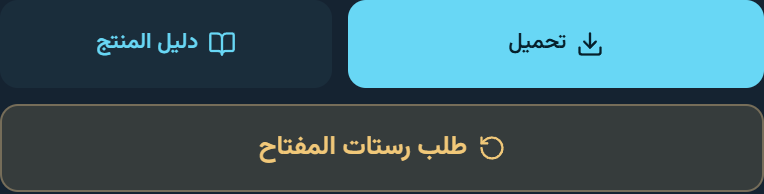
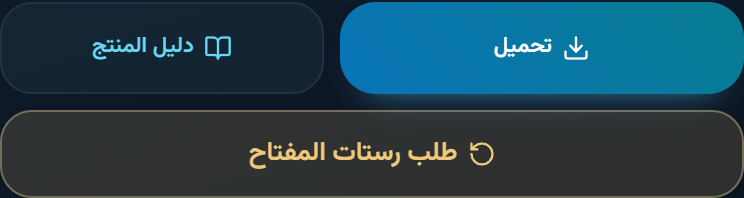
Unify soft product and activation cards, annotate help and accept short reset reasons

diff --git a/app/design-system.css b/app/design-system.css
@@ -109,7 +109,7 @@ body { background:var(--color-bg); color:var(--color-text); font-family:"Vazirma
 .image2-portal-shell .product-grid { display:grid; grid-template-columns:repeat(3,minmax(0,1fr)); gap:20px; align-items:stretch; width:100%; max-width:1300px; margin-inline:auto; }
 .image2-portal-shell .real-product { display:flex; flex-direction:column; min-width:0; max-width:420px; padding:0; border:1px solid var(--color-border); border-radius:22px; overflow:hidden; background:color-mix(in srgb,var(--color-surface) 94%,var(--color-primary)); box-shadow:var(--shadow-card); transition:border-color var(--transition-fast),transform var(--transition-fast); }
 .image2-portal-shell .real-product:hover { transform:translateY(-3px); border-color:var(--luxe-accent-line); box-shadow:var(--shadow-card); }
-.image2-portal-shell .real-product-art { position:relative; display:grid; place-items:center; width:100%; height:225px; border-bottom:1px solid var(--color-border); background:radial-gradient(ellipse at 50% 60%,var(--color-primary-soft),transparent 70%),var(--color-surface-hover); }
+.image2-portal-shell .real-product-art { position:relative; display:grid; place-items:center; width:100%; height:auto; aspect-ratio:4/3; min-height:220px; isolation:isolate; overflow:hidden; border-bottom:1px solid var(--color-border); background:radial-gradient(ellipse at 50% 60%,var(--color-primary-soft),transparent 70%),var(--color-surface-hover); }
 .image2-portal-shell .real-product-art img { position:absolute; inset:0; width:100%; height:100%; max-width:none; max-height:none; padding:42px 10px 10px; object-fit:contain; border-radius:16px; }
 .image2-portal-shell .product-placeholder-icon { display:grid; place-items:center; width:66px; height:66px; border:1px solid var(--color-border); background:var(--color-surface); color:var(--color-primary); border-radius:19px; }
 .image2-portal-shell .product-placeholder-icon svg { stroke-width:1.4; }
@@ -214,7 +214,7 @@ body { background:var(--color-bg); color:var(--color-text); font-family:"Vazirma
 .not-found { min-height:100svh; display:flex; flex-direction:column; align-items:center; justify-content:center; gap:18px; background:var(--color-bg); color:var(--color-text); }
 @media (max-width:1200px) { .workspace-header-inner { flex-wrap:wrap; gap:12px; padding-block:16px; } .workspace-nav-links { order:3; width:100%; justify-content:center; } .image2-portal-shell .product-grid { grid-template-columns:repeat(3,minmax(0,1fr)); } }
 @media (max-width:900px) { .workspace-header-inner { flex-wrap:nowrap; min-height:76px; padding-block:14px; } .workspace-nav-links { display:none; } .workspace-menu-trigger { display:inline-flex; } .workspace-welcome { grid-template-columns:1fr; padding:28px; } .workspace-identity { display:none; } .workspace-quick-grid { grid-template-columns:repeat(2,minmax(0,1fr)); } .image2-portal-shell .product-grid { grid-template-columns:repeat(2,minmax(0,1fr)); } .workspace-metric { padding:16px; } }
-@media (max-width:600px) { .image2-portal-shell { padding-inline:18px; } .workspace-header-inner { gap:8px; } .workspace-brand strong { font-size:20px; } .workspace-brand img { width:32px; height:32px; } .workspace-brand { gap:7px; } .workspace-controls { gap:5px; } .workspace-signout { display:none; } .workspace-user { width:34px; height:34px; } .workspace-icon { min-width:34px; height:36px; padding:7px; } .workspace-page-heading { padding-block:24px; } .workspace-overview { padding-top:22px; gap:22px; } .workspace-welcome { padding:24px; border-radius:20px; } .workspace-welcome h1 { font-size:28px; } .workspace-welcome-copy > p:not(.workspace-eyebrow) { font-size:14px; } .workspace-metrics { grid-template-columns:1fr; gap:12px; } .workspace-metric { display:grid; grid-template-columns:1fr auto; gap:4px 20px; } .workspace-metric > div { gap:15px; } .workspace-metric > strong { grid-column:2; grid-row:1/3; margin:0; font-size:24px; align-self:center; } .workspace-metric > p { margin:4px 0 0; } .workspace-quick-grid { gap:12px; } .workspace-quick-grid > :is(a,button) { display:flex; flex-direction:column; align-items:flex-start; padding:14px; gap:0; } .workspace-quick-grid .workspace-action-icon { margin-bottom:10px; width:30px; height:30px; } .workspace-quick-grid > :is(a,button) > svg { position:absolute; top:16px; inset-inline-end:14px; } .workspace-quick-grid > :is(a,button) > span:last-of-type { font-size:11px; } .workspace-section-heading h2 { font-size:21px; } .image2-portal-shell .product-grid { grid-template-columns:1fr; max-width:420px; margin-inline:auto; } .image2-portal-shell .real-product-art { height:215px; } .image2-portal-shell .redeem-card { padding:24px; } .luxe-profile-container :is(.luxe-profile-hero,.luxe-card) { padding:20px; } .luxe-hero-main-row { flex-wrap:wrap; } .luxe-name-badge-row { flex-wrap:wrap; } .guide-library-grid { grid-template-columns:1fr; } }
+@media (max-width:600px) { .image2-portal-shell { padding-inline:18px; } .workspace-header-inner { gap:8px; } .workspace-brand strong { font-size:20px; } .workspace-brand img { width:32px; height:32px; } .workspace-brand { gap:7px; } .workspace-controls { gap:5px; } .workspace-signout { display:none; } .workspace-user { width:34px; height:34px; } .workspace-icon { min-width:34px; height:36px; padding:7px; } .workspace-page-heading { padding-block:24px; } .workspace-overview { padding-top:22px; gap:22px; } .workspace-welcome { padding:24px; border-radius:20px; } .workspace-welcome h1 { font-size:28px; } .workspace-welcome-copy > p:not(.workspace-eyebrow) { font-size:14px; } .workspace-metrics { grid-template-columns:1fr; gap:12px; } .workspace-metric { display:grid; grid-template-columns:1fr auto; gap:4px 20px; } .workspace-metric > div { gap:15px; } .workspace-metric > strong { grid-column:2; grid-row:1/3; margin:0; font-size:24px; align-self:center; } .workspace-metric > p { margin:4px 0 0; } .workspace-quick-grid { gap:12px; } .workspace-quick-grid > :is(a,button) { display:flex; flex-direction:column; align-items:flex-start; padding:14px; gap:0; } .workspace-quick-grid .workspace-action-icon { margin-bottom:10px; width:30px; height:30px; } .workspace-quick-grid > :is(a,button) > svg { position:absolute; top:16px; inset-inline-end:14px; } .workspace-quick-grid > :is(a,button) > span:last-of-type { font-size:11px; } .workspace-section-heading h2 { font-size:21px; } .image2-portal-shell .product-grid { grid-template-columns:1fr; max-width:420px; margin-inline:auto; }  .image2-portal-shell .redeem-card { padding:24px; } .luxe-profile-container :is(.luxe-profile-hero,.luxe-card) { padding:20px; } .luxe-hero-main-row { flex-wrap:wrap; } .luxe-name-badge-row { flex-wrap:wrap; } .guide-library-grid { grid-template-columns:1fr; } }
 @media (prefers-reduced-motion:reduce) { .workspace-view { animation:none; } :is(.image2-portal-shell,.admin-workspace) *, :is(.image2-portal-shell,.admin-workspace) *::before, :is(.image2-portal-shell,.admin-workspace) *::after { transition:none; animation:none; scroll-behavior:auto; } .image2-portal-shell .real-product:hover { transform:none; } }
 
 /* Keyboard access and truthful data-loading states. */
@@ -291,3 +291,30 @@ body { background:var(--color-bg); color:var(--color-text); font-family:"Vazirma
 .spoo-tiktok-button { display:inline-flex; align-items:center; justify-content:center; gap:9px; min-height:44px; padding:11px 16px; border:1px solid #3a4a5f; border-radius:11px; color:#fff; background:#12151d; font-size:13px; font-weight:650; text-decoration:none; }
 .spoo-tiktok-button:hover { background:#202635; }
 @media(max-width:600px) { .spoo-support-contact { padding:16px; gap:12px; } .spoo-support-contact > div { flex-basis:220px; } .spoo-tiktok-button { width:100%; } }
+
+.image2-portal-shell .real-product-art .product-art-backdrop { padding:0; border-radius:0; object-fit:cover; filter:blur(18px); opacity:.18; transform:scale(1.12); z-index:-1; pointer-events:none; }
+
+/* Shared soft card treatment, adapted from the supplied Smit-Prajapati reference. */
+.image2-portal-shell { --soft-card-bg:linear-gradient(160deg,#17283bf7,#0b1421fa); --soft-card-edge:#2c4155; --soft-card-shadow:0 26px 34px -26px #61cdf570; }
+.image2-portal-shell[data-theme="light"] { --soft-card-bg:linear-gradient(0deg,#fff,#f4f7fb); --soft-card-edge:#fff; --soft-card-shadow:0 28px 30px -23px #85bdd7b0; }
+.image2-portal-shell :is(.real-product,.redeem-card) { border:4px solid var(--soft-card-edge); border-radius:36px; background:var(--soft-card-bg); box-shadow:var(--soft-card-shadow); }
+.image2-portal-shell .real-product-art { background:transparent; }
+.image2-portal-shell .product-copy { padding:20px; gap:12px; }
+.image2-portal-shell .product-copy h3 { color:var(--color-primary); text-align:center; font-size:19px; font-weight:700; }
+.image2-portal-shell .product-summary { text-align:center; }
+.image2-portal-shell :is(.sample-label,.duration-pill) { font-size:11px; }
+.image2-portal-shell .product-key-display-pill { border:0; border-radius:20px; background:var(--color-bg); box-shadow:0 8px 12px -11px var(--color-primary); }
+.image2-portal-shell :is(.btn-lux-download,.submit-redeem) { background:linear-gradient(45deg,#0874b8,#087c91); border:0; color:#fff; border-radius:18px; min-height:46px; box-shadow:0 12px 16px -14px #53bce9b0; }
+.image2-portal-shell :is(.btn-lux-guide,.btn-lux-reset) { border-radius:16px; }
+.image2-portal-shell .btn-lux-guide { border:1px solid var(--color-border); }
+.image2-portal-shell .redeem-card { padding:32px; }
+.image2-portal-shell .redeem-card-header { flex-direction:column-reverse; align-items:center; gap:14px; text-align:center; margin-bottom:14px; }
+.image2-portal-shell .redeem-eyebrow { display:none; }
+.image2-portal-shell .redeem-card h2 { color:var(--color-primary); font-size:28px; font-weight:800; }
+.image2-portal-shell .workspace-key-icon { width:58px; height:58px; border-radius:20px; border:1px solid var(--luxe-accent-line); }
+.image2-portal-shell .workspace-redeem-description { text-align:center; margin-bottom:24px; }
+.image2-portal-shell .key-input-wrapper { min-height:56px; border:2px solid transparent; border-radius:20px; box-shadow:0 10px 12px -12px var(--color-primary); }
+.image2-portal-shell .key-input-wrapper:focus-within { border-color:var(--color-primary); }
+.image2-portal-shell .paste-input-btn { border-radius:13px; }
+.image2-portal-shell .submit-redeem { margin-top:8px; min-height:50px; font-weight:700; }
+@media(max-width:600px) { .image2-portal-shell :is(.real-product,.redeem-card) { border-radius:28px; } .image2-portal-shell .redeem-card { padding:24px 20px; } .image2-portal-shell .product-copy { padding:17px; } }

diff --git a/tests/workspace.spec.ts b/tests/workspace.spec.ts
@@ -112,14 +112,14 @@ test("failed data loads recover with a visible pending state and keyboard skip l
 test("reset reason is free text and genuine server review statuses reach the customer",async({browser})=>{
  const {context,page}=await session(browser,390);let request:any=null;let status="PENDING";let notes="";
  await page.route("**/api/portal",async route=>{
-  if(route.request().method()==="POST") {const payload=route.request().postDataJSON();expect(payload).toEqual({action:"requestKeyReset",productId:product.id,productName:product.name,reason:"أحتاج نقل الترخيص إلى جهازي الجديد"});request={id:"reset-ui-test",product_name:product.name,reason:payload.reason};return route.fulfill({json:{ok:true,request}});}
+  if(route.request().method()==="POST") {const payload=route.request().postDataJSON();expect(payload).toEqual({action:"requestKeyReset",productId:product.id,productName:product.name,reason:"ض"});request={id:"reset-ui-test",product_name:product.name,reason:payload.reason};return route.fulfill({json:{ok:true,request}});}
   return route.fulfill({json:{products:[product],settings,isAdmin:false,customerNotifications:request?[{...request,status,admin_notes:notes}]:[]}});
  });
  await page.goto("http://localhost:3101/portal");await navigate(page,"منتجاتي");await expect(page.getByLabel("ابحث في منتجاتك")).toHaveCount(0);
  await page.getByRole("button",{name:"طلب رستات المفتاح",exact:true}).click();
  await expect(page.getByText("خيارات سريعة للسبب:",{exact:true})).toHaveCount(0);
  const submit=page.getByRole("button",{name:"إرسال طلب الرستات للإدارة",exact:true});await expect(submit).toBeDisabled();
- await page.getByLabel("سبب طلب الرستات بالتفصيل (مطلوب)").fill("أحتاج نقل الترخيص إلى جهازي الجديد");await submit.click();await expect(page.getByRole("dialog")).toHaveCount(0);
+ await page.getByLabel("سبب طلب الرستات (مطلوب)").fill("ض");await submit.click();await expect(page.getByRole("dialog")).toHaveCount(0);
  await expect(page.locator(".reset-update.pending")).toContainText("بانتظار مراجعة الإدارة");
  status="APPROVED";notes="تمت الموافقة على طلبك";await page.getByRole("button",{name:"تحديث الحالة",exact:true}).click();await expect(page.locator(".reset-update.approved")).toContainText(notes);
  status="REJECTED";notes="يرجى إرفاق معلومات إضافية";await page.getByRole("button",{name:"تحديث الحالة",exact:true}).click();await expect(page.locator(".reset-update.rejected")).toContainText(notes);await noOverflow(page);await context.close();
@@ -141,7 +141,7 @@ test("license countdown advances to expiry and artwork remains contained",async(
  await page.goto("http://localhost:3101/portal");await page.clock.fastForward(2000);await navigate(page,"منتجاتي");
  const timer=page.getByRole("timer");await expect(timer).toBeVisible();await expect(timer.locator("b").last()).toHaveText("10");
  await page.clock.fastForward(4000);await expect(timer.locator("b").last()).toHaveText("06");
- await expect(page.locator(".real-product-art img")).toHaveCSS("object-fit","contain");await noOverflow(page);
+ await expect(page.locator(".real-product-art .product-art-image")).toHaveCSS("object-fit","contain");await noOverflow(page);
  await page.clock.fastForward(7000);await expect(page.locator(".license-countdown.ended")).toHaveText("انتهت مدة الترخيص");await context.close();
 });
 
@@ -153,7 +153,7 @@ test("compact overview and help use current SpooFx illustrations and scoped supp
  for(const shortcut of await page.locator(".workspace-quick-grid > *").all())expect((await shortcut.boundingBox())!.height).toBeLessThan(110);
  await navigate(page,"مركز المساعدة");await expect(page.locator(".spoo-support-contact")).toContainText("لم يتفعّل منتجك فقط");await expect(page.getByRole("link",{name:"مراسلة الدعم الفني",exact:true})).toHaveCount(0);
  for(const [title,file] of [["كيف أشاهد الشروحات؟","spoofx-guides.png"],["طريقة تفعيل المفتاح","spoofx-redeem.png"],["كيف أعرف مدة اشتراكي؟","spoofx-duration.png"],["كيفية طلب رستات","spoofx-reset.png"]]) {
-  await page.getByRole("button",{name:title,exact:true}).click();const img=page.locator(`img[src="/help/${file}"]`);await img.scrollIntoViewIfNeeded();await expect(img).toBeVisible();await expect.poll(()=>img.evaluate((el:HTMLImageElement)=>el.naturalWidth)).toBeGreaterThan(0);
+  await page.getByRole("button",{name:title,exact:true}).click();const img=page.locator(`img[src="/help/${file}"]`);await img.scrollIntoViewIfNeeded();await expect(img).toBeVisible();await expect(img.locator("..").locator("svg")).toHaveCount(1);await expect.poll(()=>img.evaluate((el:HTMLImageElement)=>el.naturalWidth)).toBeGreaterThan(0);
   expect((await context.request.get(`http://localhost:3101/help/${file}`)).status()).toBe(200);
  }
  await page.getByRole("button",{name:"تكبير الصورة: كيفية طلب رستات",exact:true}).click();await expect(page.getByRole("dialog")).toBeVisible();await page.keyboard.press("Escape");await expect(page.getByRole("dialog")).toHaveCount(0);

diff --git a/lib/help-faqs.ts b/lib/help-faqs.ts
@@ -14,6 +14,7 @@ export interface HelpFaq {
   answer_en: string | null;
   /** Built-in illustration, served from /public/help. */
   image_url?: string | null;
+  image_annotation?: { title_ar:string; title_en:string; description_ar:string; description_en:string; target:[number,number]; from:[number,number] };
   keywords: string[];
   category_id: string;
   is_pinned: boolean;
@@ -58,6 +59,7 @@ export const HELP_FAQS: HelpFaq[] = [
     answer_ar: 'عند تفعيل منتج توجد أزرار مكتوبة عليها "دليل المنتج"، ومنها تفتح الشرح الكامل الخاص بمنتجك.',
     answer_en: 'Once a product is active you will find a "product guide" button that opens the full walkthrough for that product.',
     image_url: '/help/spoofx-guides.png',
+    image_annotation: {"title_ar": "افتح دليل منتجك", "title_en": "Open your product guide", "description_ar": "اضغط هذا الزر لعرض شرح المنتج وملفاته.", "description_en": "Select this button to view the product guide and files.", "target": [22, 23], "from": [56, 65]},
     keywords: ['شروحات', 'دليل', 'شرح'],
     category_id: 'cat-products',
     is_pinned: true,
@@ -72,6 +74,7 @@ export const HELP_FAQS: HelpFaq[] = [
     answer_ar: 'افتح صفحة "تفعيل مفتاح" من القائمة، ثم ألصق مفتاحك واضغط "تفعيل المفتاح". تظهر نتيجة التفعيل داخل الموقع.',
     answer_en: 'Open Activate Key from the navigation, paste your key and select Activate Key. The site will show the result.',
     image_url: '/help/spoofx-redeem.png',
+    image_annotation: {"title_ar": "ألصق مفتاح الترخيص", "title_en": "Paste your license key", "description_ar": "أدخل المفتاح في الحقل المشار إليه، ثم اضغط تفعيل المفتاح.", "description_en": "Paste the key into the highlighted field, then select Activate Key.", "target": [46, 68], "from": [18, 42]},
     keywords: ['مفتاح', 'تفعيل', 'استرداد'],
     category_id: 'cat-keys',
     is_pinned: true,
@@ -86,6 +89,7 @@ export const HELP_FAQS: HelpFaq[] = [
     answer_ar: 'يظهر العدّ التنازلي أعلى بطاقة المنتج في "منتجاتي" بالأيام والساعات والدقائق والثواني. التراخيص الدائمة يظهر عليها "ترخيص دائم".',
     answer_en: 'The countdown at the top of each card in My Products shows days, hours, minutes and seconds. Permanent licenses display Lifetime license.',
     image_url: '/help/spoofx-duration.png',
+    image_annotation: {"title_ar": "هنا الوقت المتبقي", "title_en": "Your remaining time", "description_ar": "العدّ التنازلي يوضح مدة الترخيص المتبقية.", "description_en": "This countdown shows time remaining on the license.", "target": [74, 9], "from": [44, 43]},
     keywords: ['مدة', 'اشتراك', 'انتهاء'],
     category_id: 'cat-products',
     is_pinned: true,
@@ -100,6 +104,7 @@ export const HELP_FAQS: HelpFaq[] = [
     answer_ar: 'من بطاقة المنتج اضغط "طلب رستات المفتاح"، ثم اكتب السبب بكلماتك وأرسل الطلب. ستظهر نتيجة مراجعة الإدارة وملاحظتها في الرئيسية أو "منتجاتي"؛ اضغط "تحديث الحالة" لمعرفة آخر نتيجة.',
     answer_en: 'Select Request Key Reset on the product card, describe your reason and submit. The admin decision and notes appear in Overview or My Products; select Refresh status for the latest result.',
     image_url: '/help/spoofx-reset.png',
+    image_annotation: {"title_ar": "اكتب سبب طلبك", "title_en": "Describe your reason", "description_ar": "اكتب السبب في هذا الحقل ثم أرسل الطلب لمراجعة الإدارة.", "description_en": "Enter your reason here, then submit the request for admin review.", "target": [50, 69], "from": [25, 47]},
     keywords: ['رستات', 'طلب'],
     category_id: 'cat-keys',
     is_pinned: true,

diff --git a/components/guides/guide-ui.tsx b/components/guides/guide-ui.tsx
@@ -168,30 +168,25 @@ export function GuideDialog({
 }
 
 /** Click-to-zoom illustration with a reload affordance when a picture fails. */
-export function ImageLightbox({ src, alt, className = "" }: { src: string; alt: string; className?: string }) {
+type ImageAnnotation = {title:string;description:string;target:[number,number];from:[number,number]};
+function IllustrationArrow({annotation}:{annotation:ImageAnnotation}) {
+ const [x,y]=annotation.target,[sx,sy]=annotation.from;
+ const angle=Math.atan2(y-sy,x-sx),length=4;
+ const head=`M ${x-length*Math.cos(angle-.55)} ${y-length*Math.sin(angle-.55)} L ${x} ${y} L ${x-length*Math.cos(angle+.55)} ${y-length*Math.sin(angle+.55)}`;
+ return <svg className={css.annotationArrow} viewBox="0 0 100 100" preserveAspectRatio="none" aria-hidden="true"><path d={`M ${sx} ${sy} L ${x} ${y}`} className={css.arrowOutline} vectorEffect="non-scaling-stroke"/><path d={`M ${sx} ${sy} L ${x} ${y}`} vectorEffect="non-scaling-stroke"/><path d={head} vectorEffect="non-scaling-stroke"/></svg>;
+}
+export function ImageLightbox({ src, alt, className = "", annotation }: { src: string; alt: string; className?: string; annotation?:ImageAnnotation }) {
   const [open, setOpen] = useState(false);
   const [failed, setFailed] = useState(false);
-  return (
-    <>
-      <button
-        type="button"
-        className={`${css.imageButton} ${className}`}
-        onClick={() => {
-          if (failed) setFailed(false);
-          else setOpen(true);
-        }}
-        aria-label={failed ? `إعادة تحميل الصورة: ${alt}` : `تكبير الصورة: ${alt}`}
-      >
-        {failed ? <span className={css.imageFailed}>تعذر تحميل الصورة — اضغط للمحاولة</span> : <img src={src} alt={alt} loading="lazy" onError={() => setFailed(true)} />}
-        <span className={css.imageHint}>تكبير الصورة</span>
-      </button>
-      {open && (
-        <GuideDialog title={alt} onClose={() => setOpen(false)}>
-          <img src={src} alt={alt} className={css.lightboxImage} />
-        </GuideDialog>
-      )}
-    </>
-  );
+  const caption=annotation&&<span className={css.annotationCaption}><Info size={18} aria-hidden="true"/><span><strong>{annotation.title}</strong><small>{annotation.description}</small></span></span>;
+  return <>
+    <button type="button" className={`${css.imageButton} ${annotation?css.annotatedImage:""} ${className}`} onClick={()=>{if(failed)setFailed(false);else setOpen(true);}} aria-label={failed?`إعادة تحميل الصورة: ${alt}`:`تكبير الصورة: ${alt}`}>
+      {caption}
+      {failed?<span className={css.imageFailed}>تعذر تحميل الصورة — اضغط للمحاولة</span>:<span className={css.imageCanvas}><img src={src} alt={alt} loading="lazy" onError={()=>setFailed(true)}/>{annotation&&<IllustrationArrow annotation={annotation}/>}</span>}
+      <span className={css.imageHint}>تكبير الصورة</span>
+    </button>
+    {open&&<GuideDialog title={alt} onClose={()=>setOpen(false)}>{annotation?<div className={css.annotatedLightbox}>{caption}<div className={css.imageCanvas}><img src={src} alt={alt}/><IllustrationArrow annotation={annotation}/></div></div>:<img src={src} alt={alt} className={css.lightboxImage}/>}</GuideDialog>}
+  </>;
 }
 
 /**

diff --git a/components/portal/portal.tsx b/components/portal/portal.tsx
@@ -478,7 +478,7 @@ export function Portal({ user }: { user: PortalUser }) {
                     <header className="redeem-card-header">
                       <div>
                         <span className="redeem-eyebrow">{t("تفعيل الترخيص", "License activation")}</span>
-                        <h2 id="redeem-title">{t("استرداد مفتاح", "Redeem a key")}</h2>
+                        <h2 id="redeem-title">{t("تفعيل مفتاح", "Activate a key")}</h2>
                       </div>
                       <span className="workspace-key-icon"><KeyRound size={24} /></span>
                     </header>
@@ -744,7 +744,7 @@ function Avatar({ image, name, size = 32 }: { image?: string | null; name: strin
 function ProductArtwork({ src, name }: { src?: string | null; name: string }) {
   const [failed, setFailed] = useState(false);
   useEffect(() => setFailed(false), [src]);
-  return src && !failed ? <img src={src} alt={name} loading="lazy" onError={() => setFailed(true)} /> : <div className="product-placeholder-icon"><Package size={38} aria-hidden="true" /></div>;
+  return src && !failed ? <><img className="product-art-backdrop" src={src} alt="" aria-hidden="true" loading="lazy" /><img className="product-art-image" src={src} alt={name} loading="lazy" onError={() => setFailed(true)} /></> : <div className="product-placeholder-icon"><Package size={38} aria-hidden="true" /></div>;
 }
 
 function LicenseCountdown({ expiresAt, ar }: { expiresAt?: string | null; ar: boolean }) {
@@ -1139,8 +1139,8 @@ function KeyResetModal({
               <Info size={18} />
               <p>
                 {t(
-                  "تتيح لك هذه الميزة إعادة ربط ترخيصك بجهاز جديد في حال قمت بتغيير مكونات جهازك أو قمت بعمل فورمات. يرجى توضيح السبب ليتم اعتماده من الإدارة.",
-                  "This allows re-binding your license to a new PC after hardware changes or OS reinstallation. Please describe your reason for admin approval."
+                  "اكتب سبب طلبك بأي صيغة مناسبة. ستراجعه الإدارة، وتظهر لك نتيجة القبول أو الرفض في حسابك.",
+                  "Describe your reason in your own words. The admin will review it, and the decision will appear in your account."
                 )}
               </p>
             </div>
@@ -1155,7 +1155,7 @@ function KeyResetModal({
             {/* Reason Textarea */}
             <div className="reset-textarea-wrap">
               <label className="reset-label-text" htmlFor="reset-reason">
-                {t("سبب طلب الرستات بالتفصيل (مطلوب)", "Reason for Reset Request (Required)")}
+                {t("سبب طلب الرستات (مطلوب)", "Reason for Reset Request (Required)")}
               </label>
               <textarea
                 id="reset-reason"

diff --git a/components/guides/guide-ui.module.css b/components/guides/guide-ui.module.css
@@ -947,3 +947,17 @@
 .cardTitle { font-size: 18px; font-weight: 600; }
 .dialogTitle { font-size: 22px; line-height: 1.6; }
 .iconButton { min-width: 40px; min-height: 40px; border-radius: 11px; }
+
+.imageCanvas { position:relative; display:block; }
+.annotatedImage { max-width:560px; border-radius:16px; }
+.annotatedImage .imageCanvas img { width:100%; height:auto; max-height:none; }
+.annotationArrow { position:absolute; inset:0; width:100%; height:100%; pointer-events:none; overflow:visible; }
+.annotationArrow path { fill:none; stroke:#68d7f5; stroke-width:3; stroke-linecap:round; stroke-linejoin:round; filter:drop-shadow(0 1px 2px #000); }
+.annotationArrow .arrowOutline { stroke:#07101d; stroke-width:7; opacity:.85; }
+.annotationCaption { display:flex; align-items:flex-start; gap:10px; padding:14px 16px; text-align:start; background:var(--accent-soft); border-bottom:1px solid var(--luxe-line); color:var(--luxe-accent); }
+.annotationCaption > svg { flex-shrink:0; margin-top:3px; }
+.annotationCaption > span { display:grid; gap:4px; }
+.annotationCaption strong { color:var(--luxe-ink); font-size:14px; line-height:1.7; }
+.annotationCaption small { color:var(--luxe-muted); font-size:12px; line-height:1.8; }
+.annotatedLightbox { width:min(100%,640px); margin:auto; border:1px solid var(--luxe-line); border-radius:14px; overflow:hidden; }
+.annotatedLightbox .imageCanvas img { display:block; width:100%; height:auto; }

diff --git a/app/api/portal/route.ts b/app/api/portal/route.ts
@@ -244,8 +244,8 @@ export async function POST(request: NextRequest) {
       const productName = typeof data.productName === "string" ? data.productName.trim() : "SpooFX Product";
       const licenseCode = typeof data.licenseCode === "string" ? data.licenseCode.trim() : undefined;
       const reason = typeof data.reason === "string" ? data.reason.trim() : "";
-      if (!reason || reason.length < 3) {
-        return json({ error: "MISSING_REASON", message: "يرجى كتابة سبب طلب إعادة ضبط المفتاح (مثال: تغيير الجهاز أو فورمات)" }, 400);
+      if (!reason) {
+        return json({ error: "MISSING_REASON", message: "اكتب سبب الطلب لإرساله للمراجعة." }, 400);
       }
 
       const result = await createKeyResetRequest({

diff --git a/components/portal/help-center.tsx b/components/portal/help-center.tsx
@@ -340,7 +340,7 @@ function FaqCard({
             transition={{ duration: reducedMotion ? 0 : 0.18, ease: "easeOut" }}
           >
             <FaqAnswer text={ar ? faq.answer_ar : faq.answer_en || faq.answer_ar} />
-            {faq.image_url && <ImageLightbox src={faq.image_url} alt={question} />}
+            {faq.image_url && <ImageLightbox src={faq.image_url} alt={question} annotation={faq.image_annotation ? {title:ar?faq.image_annotation.title_ar:faq.image_annotation.title_en,description:ar?faq.image_annotation.description_ar:faq.image_annotation.description_en,target:faq.image_annotation.target,from:faq.image_annotation.from}:undefined} />}
           </motion.div>
         )}
       </AnimatePresence>

diff --git a/docs/visual-redesign.md b/docs/visual-redesign.md
@@ -2,7 +2,7 @@
 
 ## Scope and recovery
 Baseline: `before-saas-redesign-2026-10-27` (published Git tag).
-The implementation keeps the existing Next.js / React application, NextAuth sessions, PostgreSQL store, API contracts and server permission checks. No schema, API route, authentication or store logic changed. Compare with:
+The implementation keeps the existing Next.js / React application, NextAuth sessions, PostgreSQL store, API contracts and server permission checks. Schema, authentication, store logic and key redemption remain unchanged. The later reset-reason follow-up removes only the three-character minimum in the existing requestKeyReset API handler, at the owner’s explicit request. Compare with:
 
     git diff before-saas-redesign-2026-10-27 -- lib app/api app/page.tsx app/portal/page.tsx
 
@@ -55,3 +55,10 @@ Restyled customer cards around the supplied reference: larger contained artwork,
 Reduced overview metric height/padding and made desktop quick actions horizontal and compact, retaining readable mobile cards and all destinations. Replaced four imported FAQ screenshots with high-resolution captures of the current SpooFx product actions, activation form, countdown and reset dialog. The captures use a documentation-only local fixture with no personal data or valid license key; no customer data source was replaced. Old FAQ image files were removed and answer text now matches current labels and reset review flow.
 Added one shared support notice to Overview and Help Center. It limits contact to account or activation issues and explicitly excludes tutorials/technical troubleshooting via support. The owner selected TikTok instead of WhatsApp and supplied `x3_s`; the button opens `https://www.tiktok.com/@x3_s`. Removed the previous unverified email destination. Public contact configuration lives in `lib/support-contact.ts`.
 Production build and all 20 browser tests passed. A targeted follow-up passed after connecting TikTok, checking the exact URL, compact dimensions, all four images, image enlargement, old-image removal and mobile overflow. Existing server authorization, authentication, schema and license logic remain untouched.
+
+
+## Soft product/activation cards, annotated help and short reset reasons — 2026-10-28
+Applied the supplied rounded Smit-Prajapati-inspired card surface to all licensed products and key activation, with matching dark/light gradients, inset fields, cyan actions and retained amber reset action. Expanded all product artwork slots proportionally, preserving complete images and adding a subtle decorative backdrop using the same cached source image.
+Added responsive SVG arrows plus brief Arabic/English titles and descriptions to all four FAQ illustrations, including their enlarged views. Arrow targets were measured from the actual current controls. Refreshed screenshots for the latest product, activation and reset layouts; the examples contain no customer data or valid keys.
+Fixed the reported short-reason failure: the existing requestKeyReset endpoint now accepts any non-empty trimmed reason instead of requiring three characters. Blank/whitespace-only reasons remain invalid. There are no changes to authentication, authorization, schema, key generation, redemption or admin review. Simplified the reset dialog wording and removed the implication that the customer must write a detailed reason.
+Production build and all 20 browser tests pass, including a one-character reset reason, annotated-image rendering/enlargement, responsive product cards, activation outcomes and keyboard navigation. Thirty integration assertions pass on isolated PostgreSQL, including actual persistence of a one-character Arabic reason, rejection of a blank reason and approved/rejected customer notifications. Production licenses were not used for testing.
